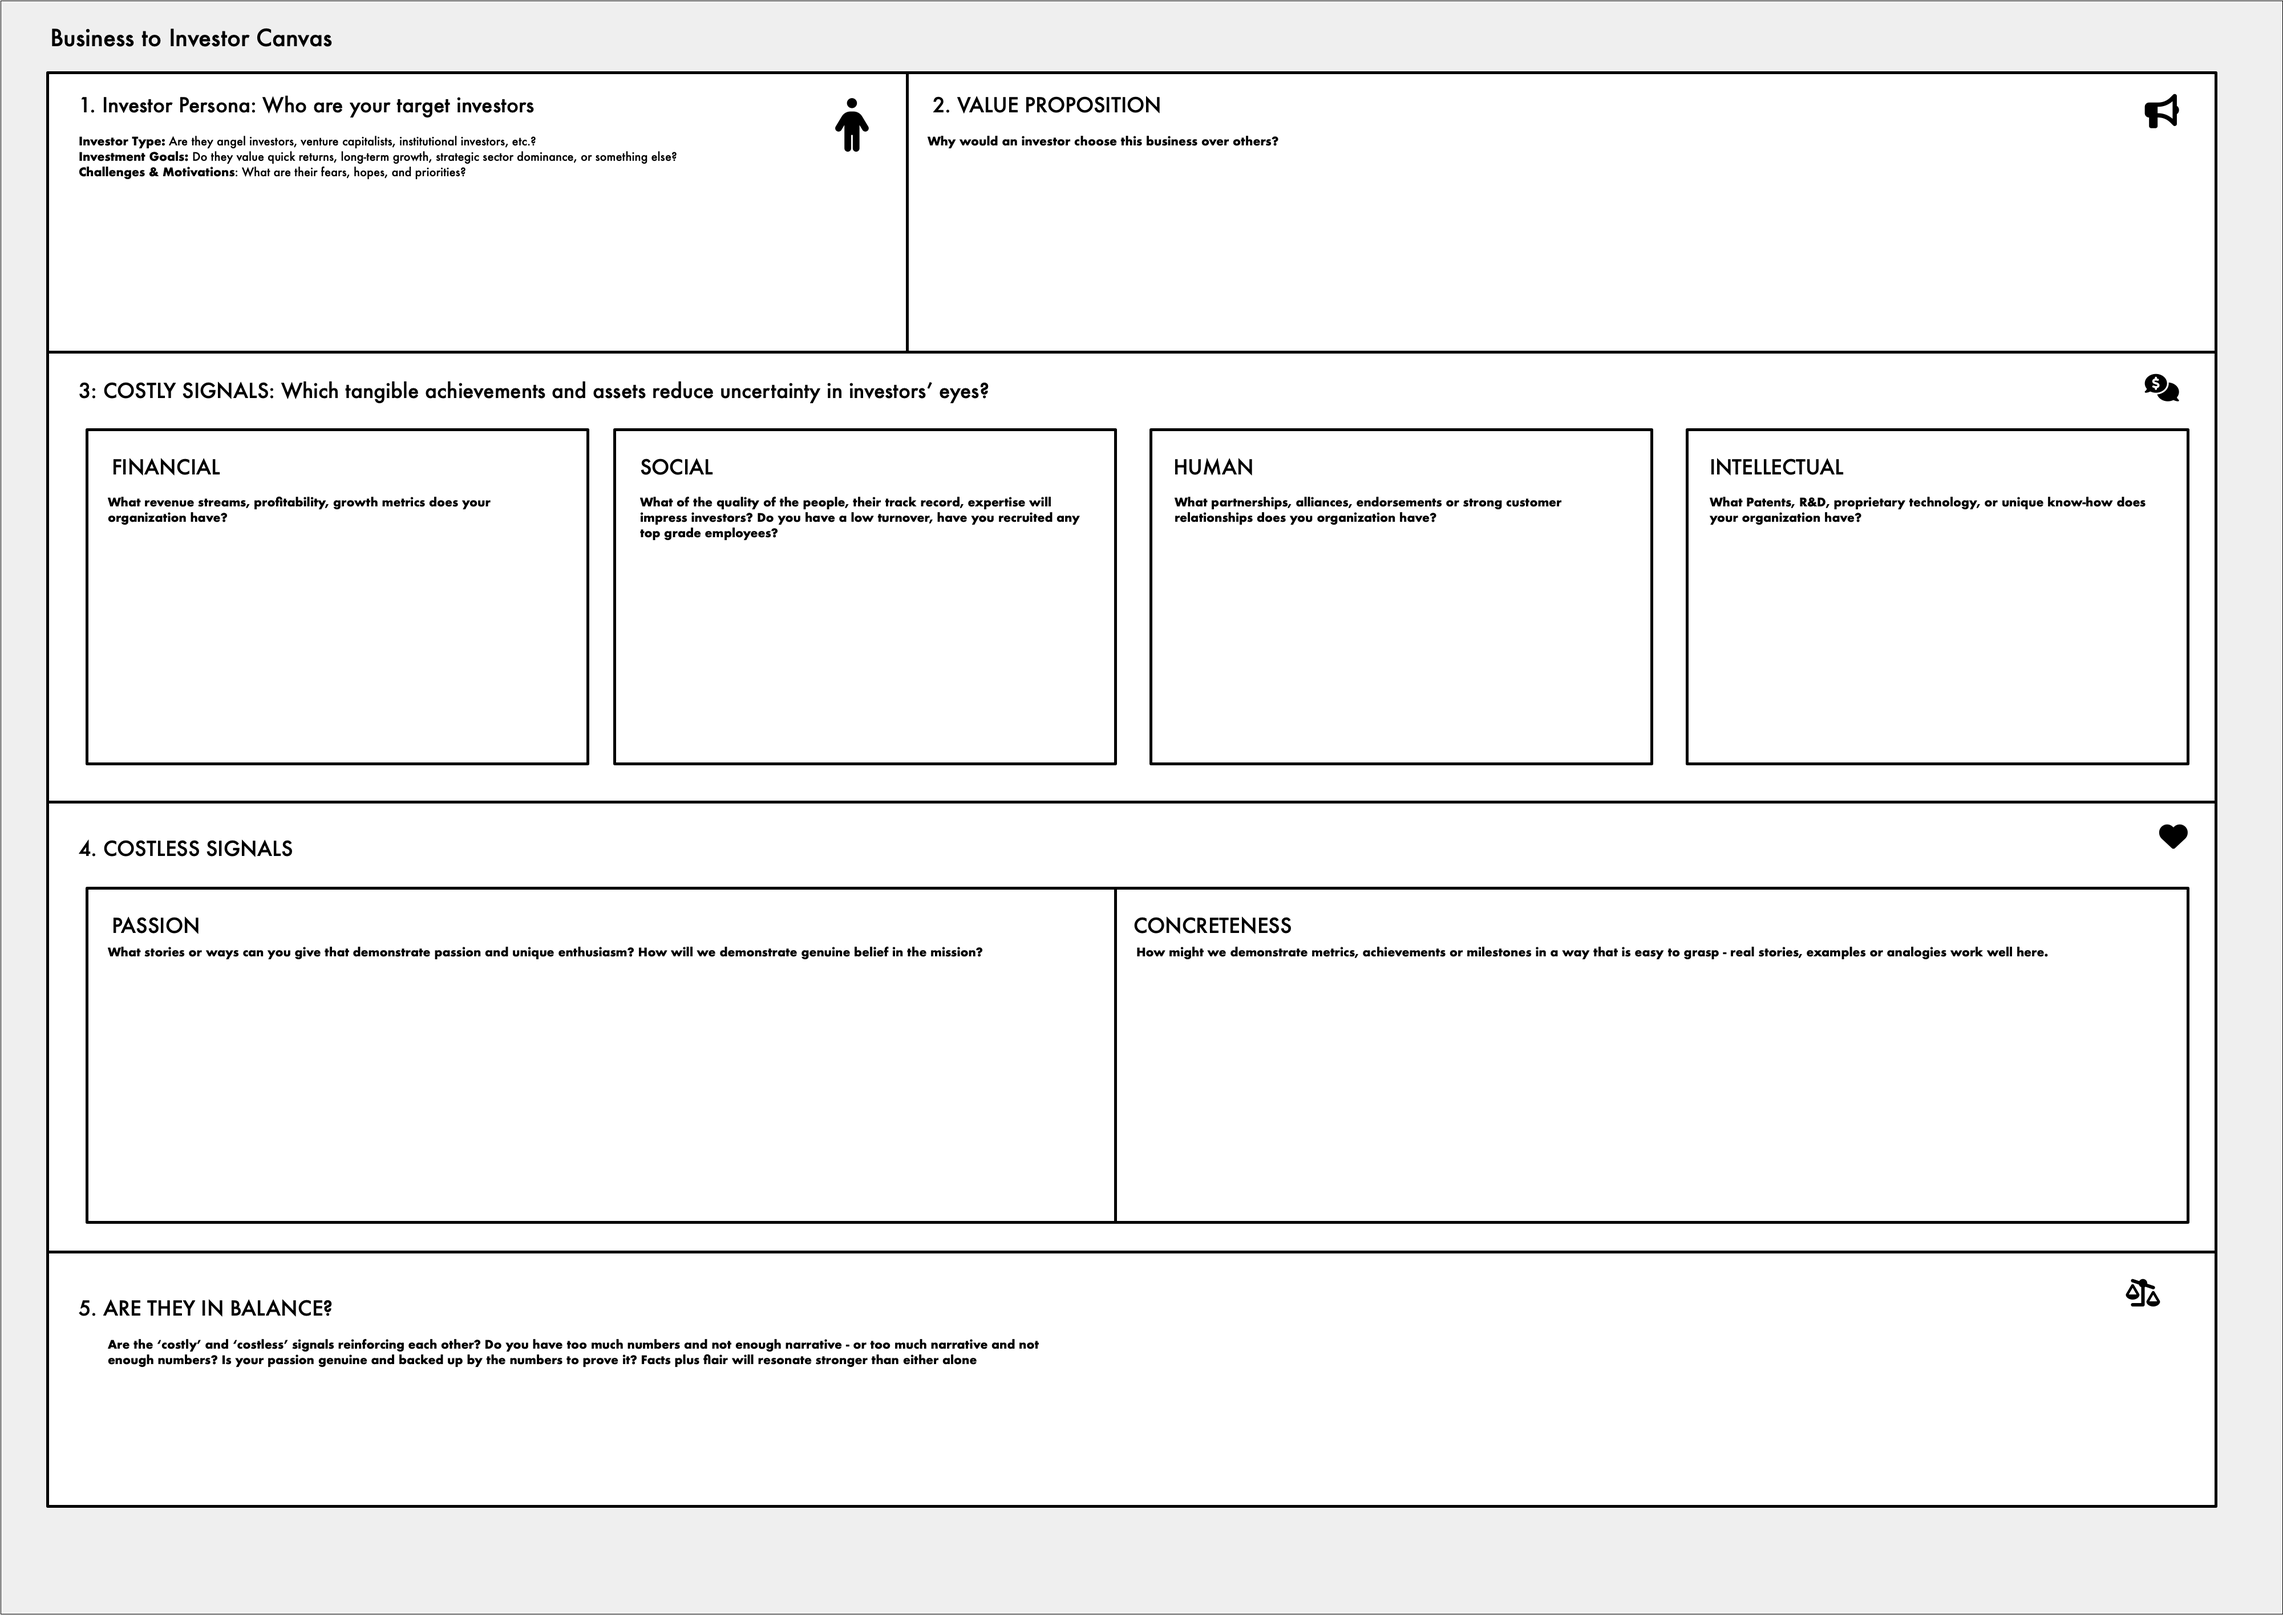
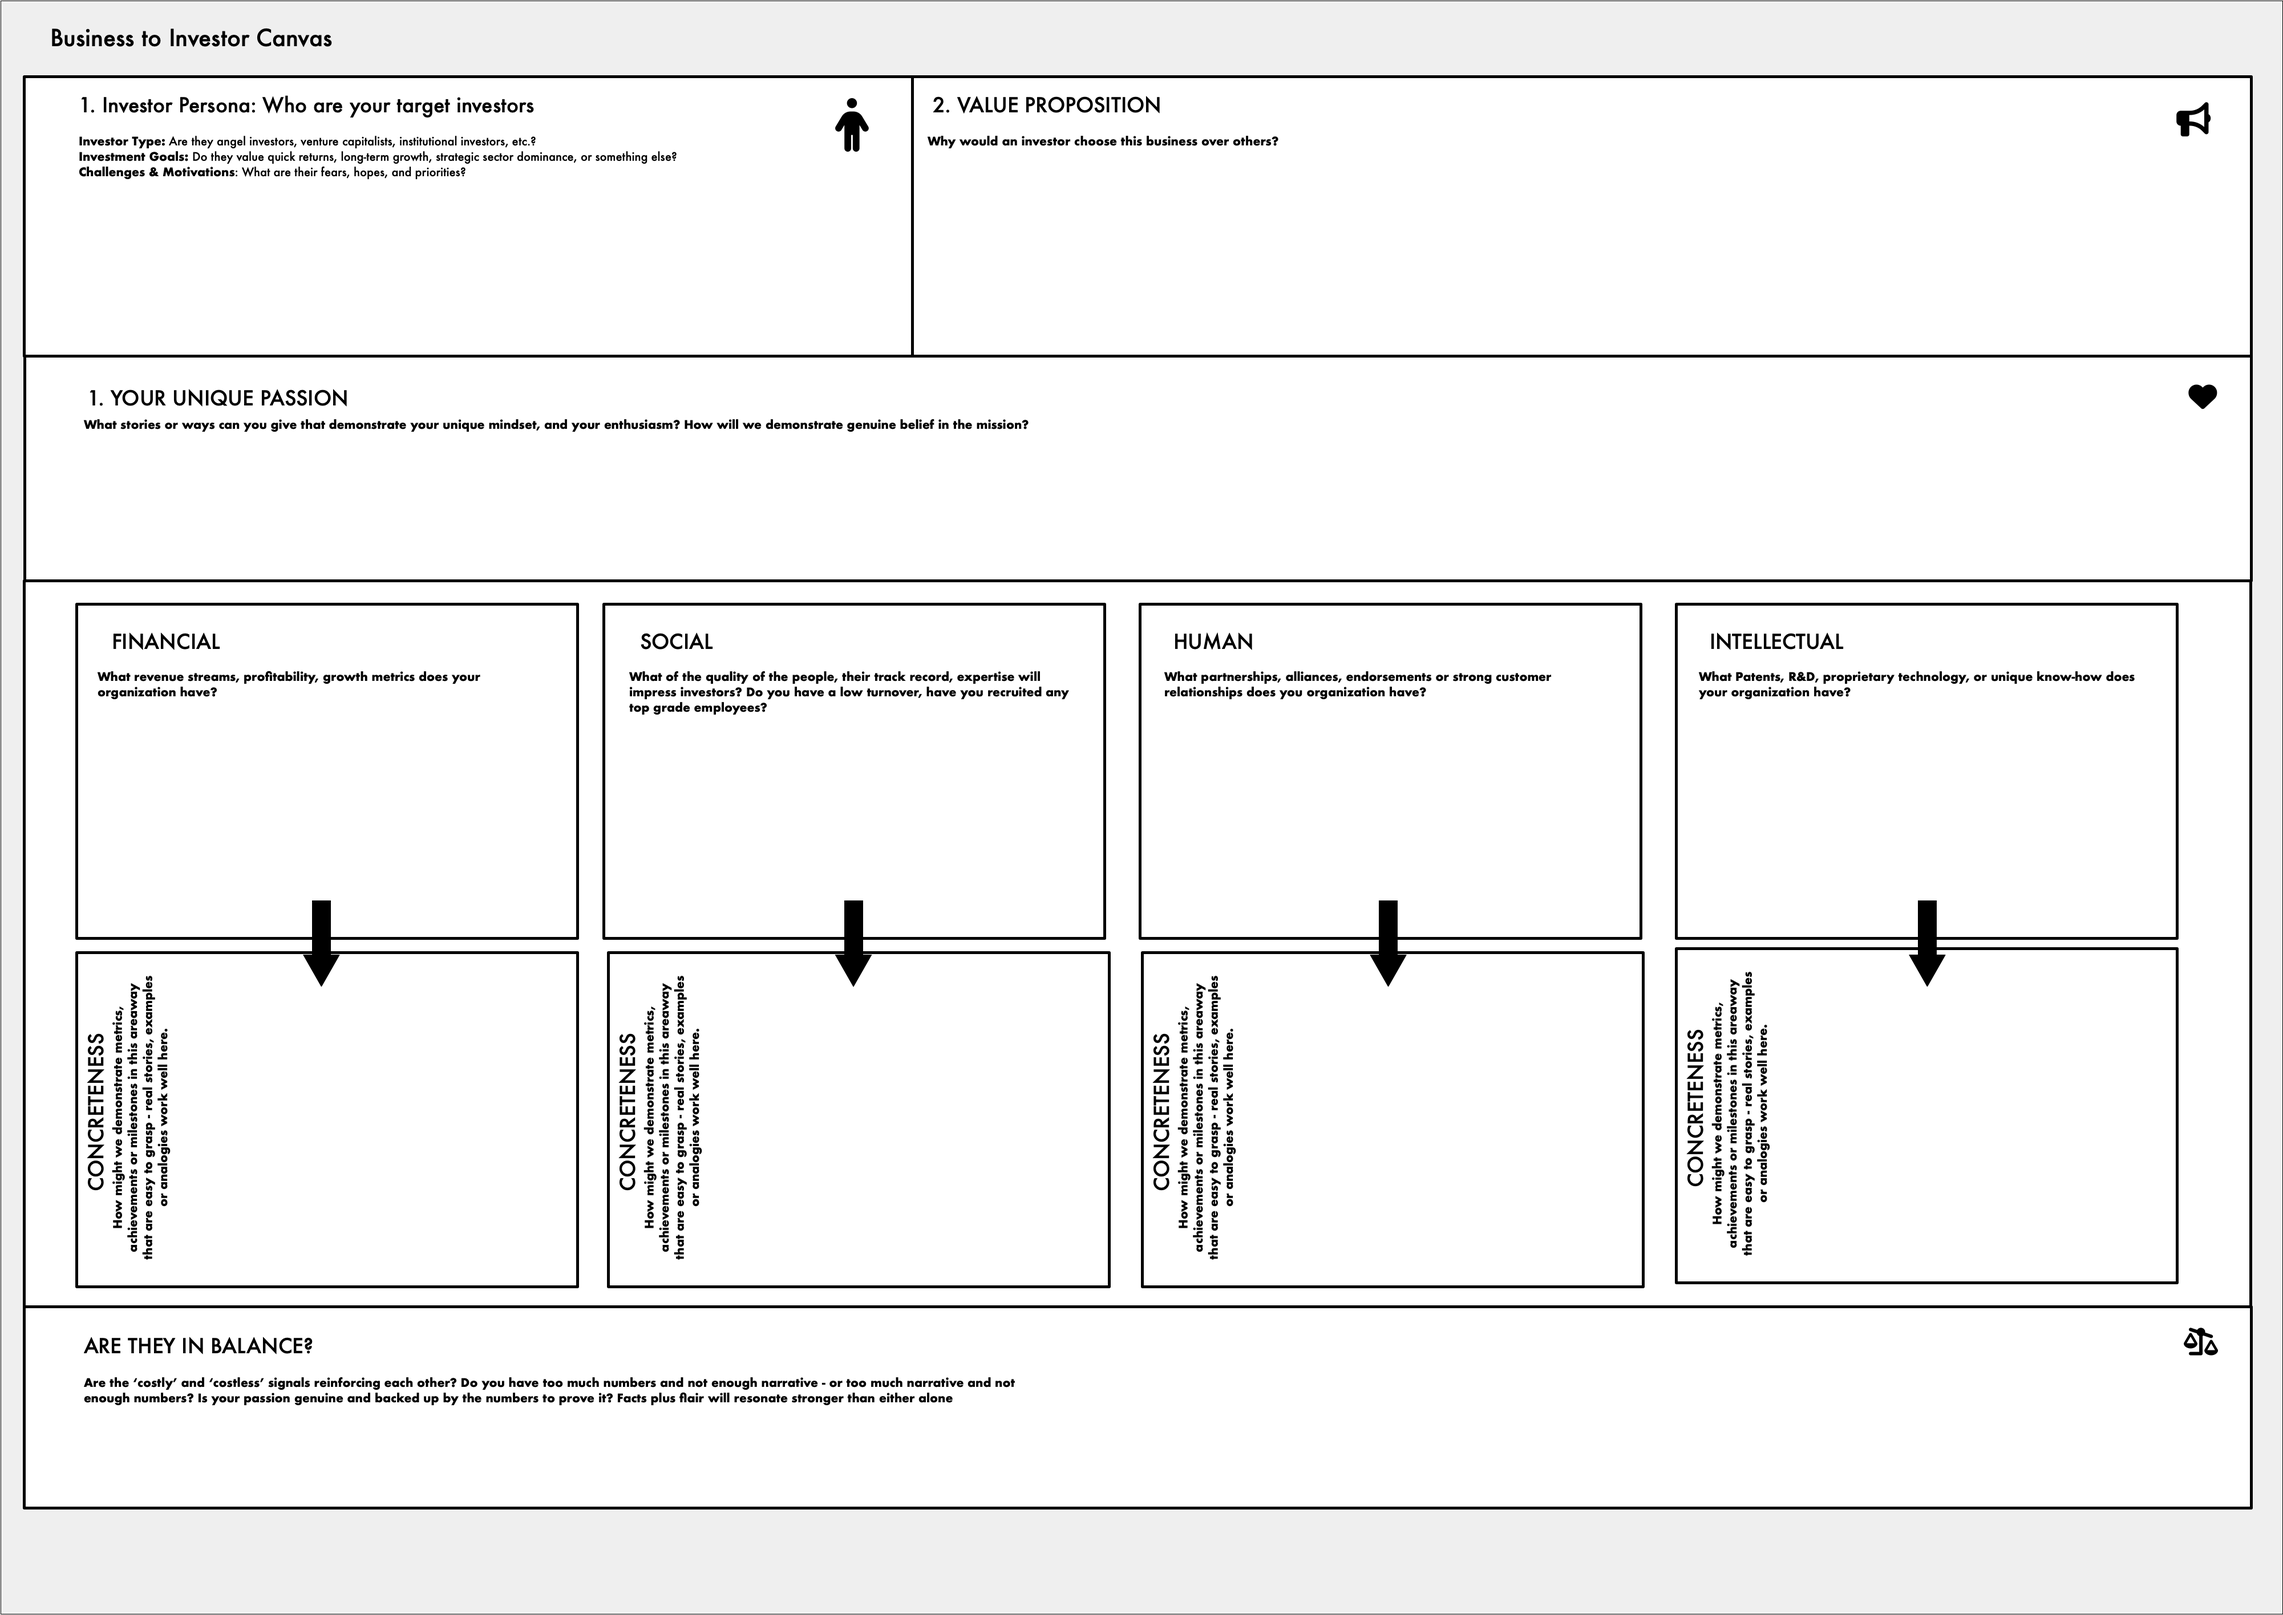
edited blog post with OpenAi example and new canvas

diff --git a/src/content/blog/post-2.md b/src/content/blog/post-2.md
@@ -8,7 +8,7 @@ tags:
   - B2I
 ---
 
-Working on investor relations content can be a challenge, partly because they are such an illusive bunch and it can be hard to get any solid research on this audience. In the past I've used [Brunswick's Digital Investor Survey](https://www.brunswickgroup.com/perspectives/digital-investor-survey/2023/) - but usually I'm reliant on my client to steer me in the right direction. That's why I was very interested to see this new report titled _[Business-to-Investor Marketing:The Interplay of Costly and Costless Signals](https://journals.sagepub.com/doi/10.1177/00222429241288464)_ in my RSS feed: I was genuinely excited when I flicked through it - can this finally offer a framework to assess my own Investor Relations communication?
+Working on investor relations content can be a challenge, partly because they are quite an illusive, exclusive bunch and it can be hard to find any solid research on them. In the past I've used [Brunswick's Digital Investor Survey](https://www.brunswickgroup.com/perspectives/digital-investor-survey/2023/) - but usually I'm reliant on my client to steer me in the right direction. That's why I was very interested to see this new report titled _[Business-to-Investor Marketing:The Interplay of Costly and Costless Signals](https://journals.sagepub.com/doi/10.1177/00222429241288464)_ in my RSS feed: I was genuinely excited when I flicked through it - can this finally offer a framework to assess my own Investor Relations communication?
 
 The language of their report takes a bit getting used to, but their main thrust is that you must carefully balance the 'costed' with the 'costless' and it is the interplay of these two things together that make for successful communication.
 
@@ -30,6 +30,10 @@ Costless signals, on the other hand, shape how investors perceive the business. 
 • **Passion:** Enthusiasm, energy, and conviction that show belief in the company’s vision.
 
 • **Concreteness:** Clear, vivid communication that makes achievements feel real. This involves providing evidence—numbers, milestones, and examples—in language that is relatable and easy to grasp. Concreteness doesn’t create new achievements but ensures existing ones are communicated in a way that inspires confidence.
+
+In my view, ‘Concreteness’ involves using language that vividly illustrates the organisation’s opportunities. A good example of concreteness in action is found in OpenAI’s recent _[Economic Blueprint](https://openai.com/global-affairs/openais-economic-blueprint/)_, where they draw parallels between the level of investment and policy changes needed for America’s adoption of the automobile and those required for the widespread adoption of Artificial Intelligence. By making these comparisons, OpenAI effectively brings the potential and impact of AI to life for their audience, while easing concerns about just how difficult, or just how expensive it might be. We've done it all before, lads. Here's the quote:
+
+> "America took a very different approach, and the country became the heart of the world’s auto industry, mass-producing affordable cars with the help of local, state and federal officials who saw the industry’s potential. Public safety concerns over horse-drawn vehicles on crowded city streets prompted local officials to support the switch to cars—not make cars yield to horses. The country’s size prompted states to invest in better roads. And the federal government cleared the way to scale transport by car with a national—rather than state-by-state—highway system."
 
 Here is a diagram explaining from their model, illustrating their main theory, that _investor acceptance occurs when both the costless signals and the costly are in balance._
 
